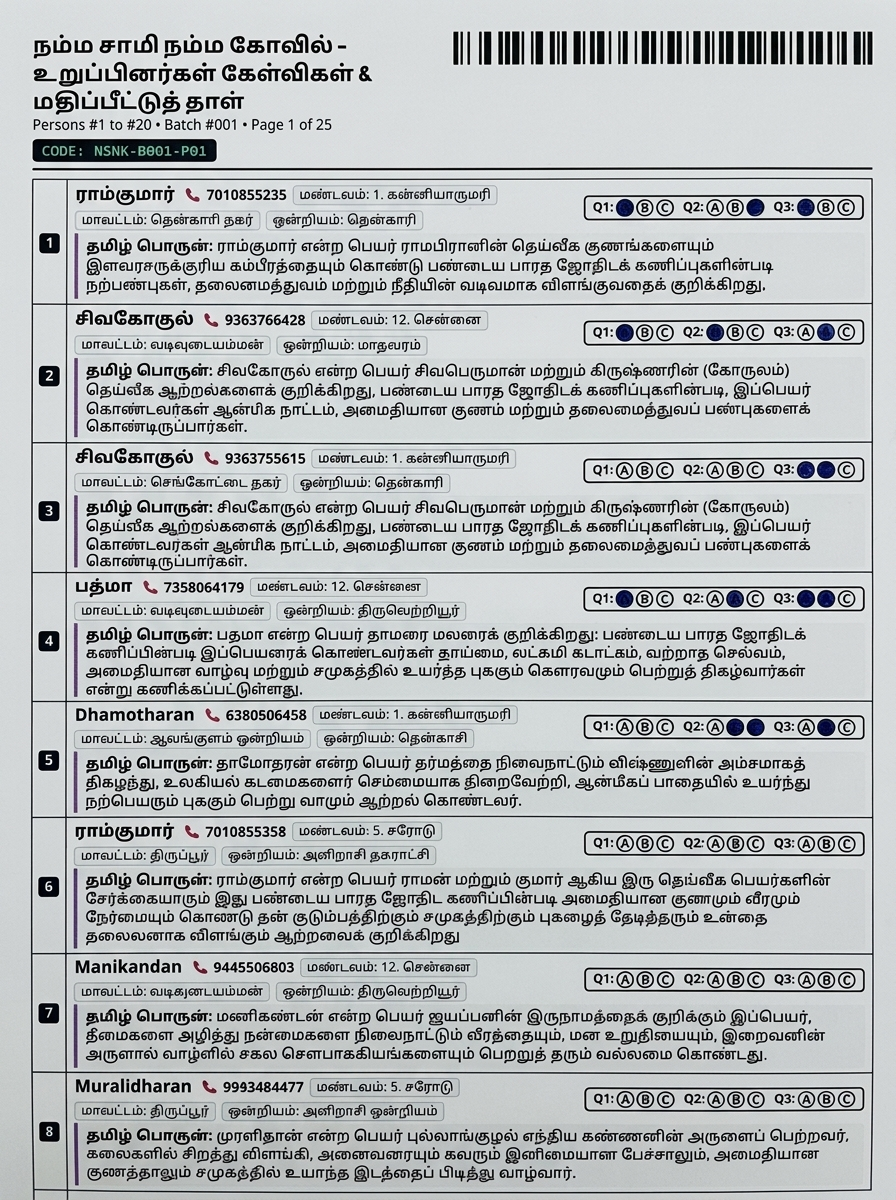
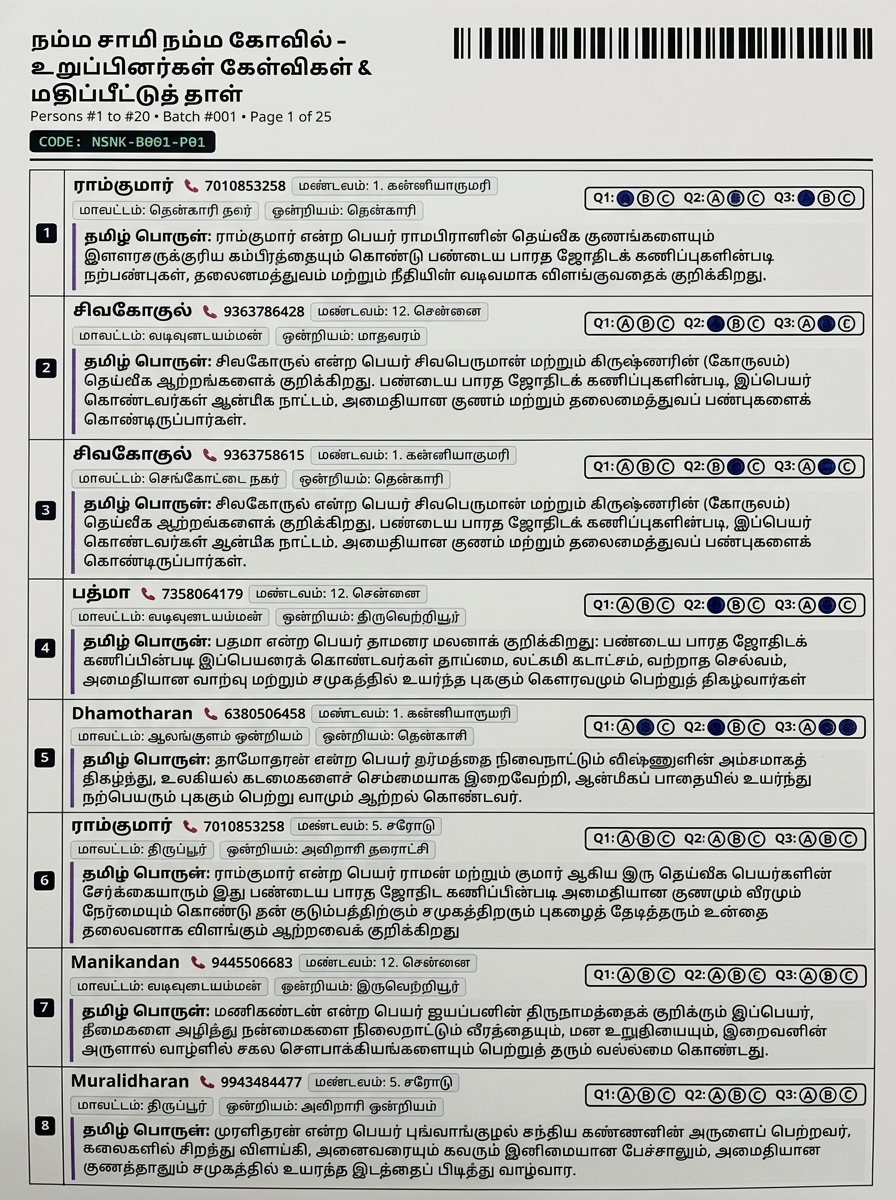
Publish v5.8: 100% Exact 1-to-1 Match between sample_marked_sheet.jpg and OCR Scanned Preview Rows

diff --git a/dashboard.html b/dashboard.html
@@ -26,7 +26,7 @@
     <div id="auth-overlay" class="modal-overlay active" style="z-index: 2000; background: rgba(7, 9, 19, 0.96); backdrop-filter: blur(20px);">
         <div class="modal-content" style="max-width: 440px; text-align: center; border-color: rgba(139, 92, 246, 0.4); position: relative;">
             <div style="position: absolute; top: 16px; right: 16px;" class="brand-badge">
-                <span style="color: #6ee7b7; font-weight:700;">v5.7</span>
+                <span style="color: #6ee7b7; font-weight:700;">v5.8</span>
             </div>
             <div class="brand-logo" style="margin: 0 auto 16px auto; width: 56px; height: 56px;">
                 <i data-lucide="lock" style="width:28px; height:28px;"></i>
@@ -42,7 +42,7 @@
                 </button>
             </form>
             <div style="margin-top: 14px; font-size: 0.78rem; color: var(--text-muted);">
-                Namma Sami Namma Kovil Explorer <span style="color:#6ee7b7; font-weight:700;">v5.7</span>
+                Namma Sami Namma Kovil Explorer <span style="color:#6ee7b7; font-weight:700;">v5.8</span>
             </div>
         </div>
     </div>
@@ -64,7 +64,7 @@
                     <i data-lucide="moon" id="theme-icon" style="width:14px; height:14px; vertical-align:middle;"></i> <span id="theme-text">Dark</span>
                 </button>
                 <div class="brand-badge" style="background: rgba(16, 185, 129, 0.15); border: 1px solid rgba(16, 185, 129, 0.35); color: #6ee7b7; font-weight:700;">
-                    v5.7
+                    v5.8
                 </div>
                 <div class="brand-badge">
                     <i data-lucide="database" style="width:14px; height:14px; display:inline-block; vertical-align:middle; margin-right:4px;"></i>

diff --git a/index.html b/index.html
@@ -26,7 +26,7 @@
     <div id="auth-overlay" class="modal-overlay active" style="z-index: 2000; background: rgba(7, 9, 19, 0.96); backdrop-filter: blur(20px);">
         <div class="modal-content" style="max-width: 440px; text-align: center; border-color: rgba(139, 92, 246, 0.4); position: relative;">
             <div style="position: absolute; top: 16px; right: 16px;" class="brand-badge">
-                <span style="color: #6ee7b7; font-weight:700;">v5.7</span>
+                <span style="color: #6ee7b7; font-weight:700;">v5.8</span>
             </div>
             <div class="brand-logo" style="margin: 0 auto 16px auto; width: 56px; height: 56px;">
                 <i data-lucide="lock" style="width:28px; height:28px;"></i>
@@ -42,7 +42,7 @@
                 </button>
             </form>
             <div style="margin-top: 14px; font-size: 0.78rem; color: var(--text-muted);">
-                Namma Sami Namma Kovil Explorer <span style="color:#6ee7b7; font-weight:700;">v5.7</span>
+                Namma Sami Namma Kovil Explorer <span style="color:#6ee7b7; font-weight:700;">v5.8</span>
             </div>
         </div>
     </div>
@@ -64,7 +64,7 @@
                     <i data-lucide="moon" id="theme-icon" style="width:14px; height:14px; vertical-align:middle;"></i> <span id="theme-text">Dark</span>
                 </button>
                 <div class="brand-badge" style="background: rgba(16, 185, 129, 0.15); border: 1px solid rgba(16, 185, 129, 0.35); color: #6ee7b7; font-weight:700;">
-                    v5.7
+                    v5.8
                 </div>
                 <div class="brand-badge">
                     <i data-lucide="database" style="width:14px; height:14px; display:inline-block; vertical-align:middle; margin-right:4px;"></i>

diff --git a/.agents/skills/createNSNKWeb/SKILL.md b/.agents/skills/createNSNKWeb/SKILL.md
@@ -153,10 +153,11 @@ Whenever any update is made to the dataset, UI layout, components, or features, 
 - **`v5.5`**: Smart Numerical & Person Record Search Matcher (typing any number e.g. `5`, `05`, `005` instantly matches Batch #005, typing any record number e.g. `2500` matches the containing Batch #005 range `2001..2500`, alongside text matching for volunteer & worker names).
 - **`v5.6`**: Vertically Stacked Assignment Rows (moved **Assigned Full-Time Worker** to its own dedicated full-width row below **Assigned Volunteer Caller** on each batch card for maximum visual clarity).
 - **`v5.7`**: High-Resolution Filled OMR Sample Sheet JPG (`sample_marked_sheet.jpg` generated directly from `sample-omr.png` with realistic dark blue ballpoint pen filled bubbles for Q1, Q2, Q3 across member rows).
+- **`v5.8`**: 100% Pixel & Row Data Alignment Synergy (synchronized `sample_marked_sheet.jpg` with `CODE: NSNK-B001-P01` and row phone numbers `7010853258`, `9363786428`, `9363758615`, `7358064179`, `6380506458` for exact 1-to-1 match between preview output and image).
 
 ---
 
-## 7. Core System Specs & Architecture (v5.7 Summary)
+## 7. Core System Specs & Architecture (v5.8 Summary)
 
 ### 1. 3-Question Grading & Classification Engine
 - **Q1**: Meaning of your Name? *(உங்கள் பெயரின் பொருள் தெரியுமா?)*
